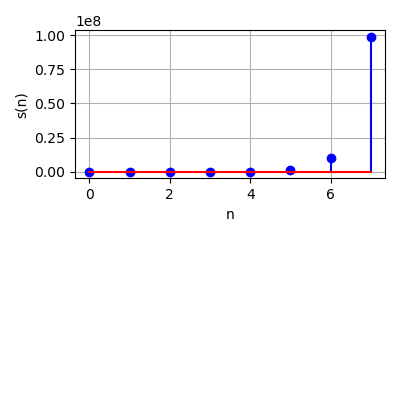
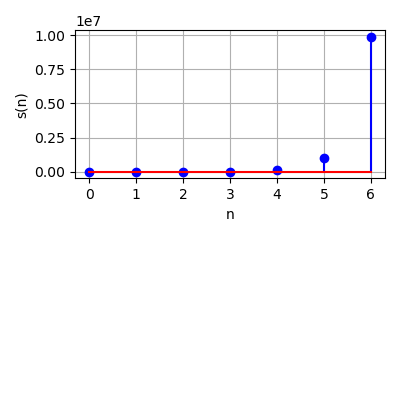
Add files via upload

diff --git a/11.9.3.18/codes/fig.py b/11.9.3.18/codes/fig.py
@@ -4,8 +4,8 @@ import numpy as np
 data = np.loadtxt('values.dat', delimiter=' ', comments='Values')
 
 # Extracting values for x_1(n) and x_2(n)
-n_values_1 = data[:8, 0]
-x_1_values = data[:8, 1]
+n_values_1 = data[:7, 0]
+x_1_values = data[:7, 1]
 
 
 plt.figure(figsize=(4,4))
